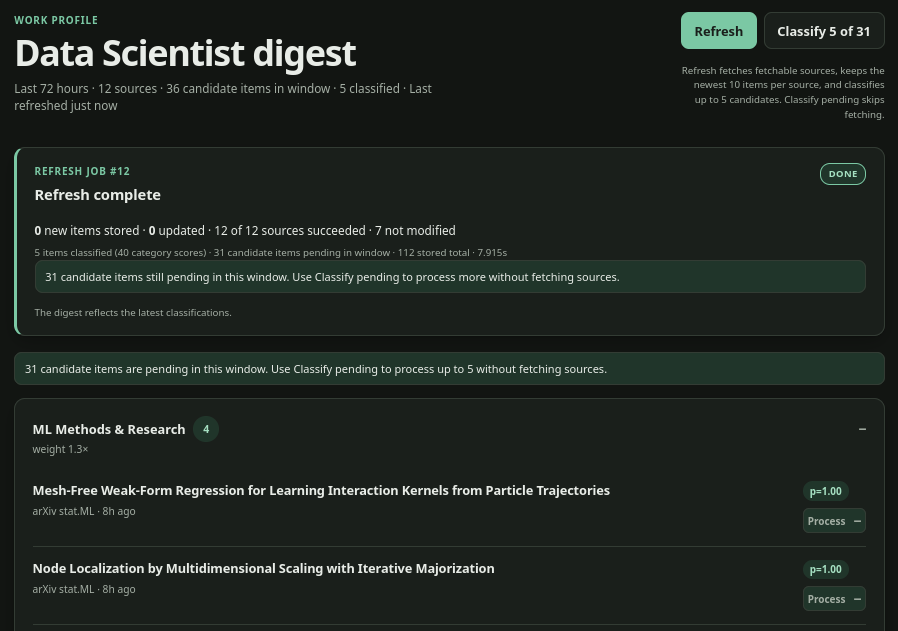
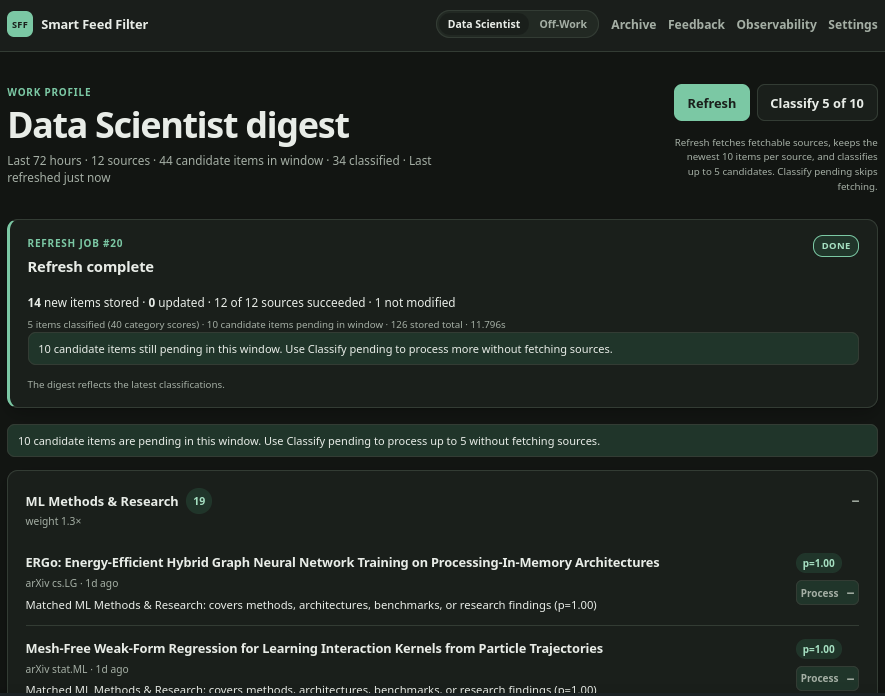
README+screenshots

diff --git a/README.md b/README.md
@@ -68,7 +68,9 @@ Process menu → archive, dismiss, recategorize, feedback
 
   ![Refresh job showing classification progress and stop control](_docs/screenshots/classification-processing.png)
 
+- **Observability page**: shows summary counts, recent traces, kind/status filters, and local alerts.
 
+  ![Observability page: summary counts, recent traces, kind/status filters, and local alerts](_docs/screenshots/observability-page.png)
 
 ## Code
 
@@ -87,6 +89,8 @@ Process menu → archive, dismiss, recategorize, feedback
 │   ├── logging_config.py
 │   ├── __main__.py
 │   ├── main.py
+│   ├── observability.py
+│   ├── observability_schema.sql
 │   ├── routes/
 │   ├── schema.sql
 │   ├── seed.py
@@ -96,7 +100,8 @@ Process menu → archive, dismiss, recategorize, feedback
 │   ├── timeutil.py
 │   └── versioning.py
 ├── data
-│   └── feedfilter.db   # generated at runtime (not committed)
+│   ├── feedfilter.db        # generated at runtime (not committed)
+│   └── observability.db     # local diagnostics only (not committed)
 ├── eval/
 ├── profiles
 │   ├── catalog.yaml
@@ -140,6 +145,24 @@ Use the per-item **Process** menu on matched or low-confidence entries:
 
 Archived items stay out of the digest and candidate counts. Removing one from the Archive page converts it to a dismissal while the underlying item exists.
 
+## Observability and alerts
+
+Diagnostics are local. The app writes traces, spans, metrics, structured log records, and alerts to a second SQLite database, kept separate from the digest database. No external telemetry service is called, and no account is required.
+
+- **Observability page**: open **Observability** in the header or go to <http://127.0.0.1:8000/observability>. It shows summary counts, recent traces, kind/status filters, and local alerts.
+- **Traces**: each request and refresh/classify job gets a trace ID. HTTP responses include `X-Trace-ID`; static assets, `/favicon.ico`, and `/healthz` are excluded. Open a trace to inspect its spans, metrics, and structured logs. Refresh traces include `feed.fetch`, `classify.items`, and `job.persist` spans.
+- **Alerts**: failed jobs, classification/Ollama failures, all-feeds-failed refreshes, and empty digests after a successful refresh create local alerts. The digest shows an alert banner for the active profile. Open alerts are deduplicated by profile and code; use **Acknowledge** on the Observability page to close one.
+- **Health**: `/healthz` keeps the existing table counts and adds `observability.status` plus `observability.open_alerts`. The Docker healthcheck is unchanged.
+- **Privacy**: the observability database stores IDs, counts, durations, statuses, event names, sanitized error-class messages, and URL-sanitized text. It does not store article titles, summaries, feed titles, model prompts, credentials, or external telemetry.
+- **Configuration**: `OBS_DB_PATH` selects the observability database and defaults to `./data/observability.db`; it must differ from `DB_PATH`. Compose passes `OBS_DB_PATH` through to `/app/data/observability.db` in the existing `feedfilter-data` volume.
+- **Reset**: stop the app, delete the file, and restart to recreate the schema:
+
+  ```bash
+  rm -f data/observability.db
+  ```
+
+  This removes local diagnostics and alert history only; the digest database and profiles are untouched. In Compose the file lives at `/app/data/observability.db` inside the `feedfilter-data` volume.
+
 ## Docker Compose
 
 The full stack also runs with Docker Compose, including Ollama. Compose reads `.env`, so create it first. You can use Podman instead of Docker if you prefer:
@@ -155,14 +178,14 @@ If port 8000 is busy on your machine, you can change PORT in `.env`, to 8080 for
 
   ![Ollama pull and application ready in Docker Compose](_docs/screenshots/ollama-pull-app-ready.png)
 
-Compose passes behavioral settings from `.env` (`TEV_MODEL`, `PORT`, `LOG_LEVEL`, `MAX_NEW_ITEMS`, `MAX_ITEMS_PER_FEED`, `REFRESH_OVERLAP_HOURS`, `RETENTION_DAYS`, `WINDOW_HOURS`, `RESCORE_DAYS`, `THRESHOLD`, `DB_PATH`, `LOG_PATH`). Two values are container-specific:
+Compose passes behavioral settings from `.env` (`TEV_MODEL`, `PORT`, `LOG_LEVEL`, `MAX_NEW_ITEMS`, `MAX_ITEMS_PER_FEED`, `REFRESH_OVERLAP_HOURS`, `RETENTION_DAYS`, `WINDOW_HOURS`, `RESCORE_DAYS`, `THRESHOLD`, `DB_PATH`, `OBS_DB_PATH`, `LOG_PATH`). Two values are container-specific:
 
 | Variable | Default | Purpose |
 |---|---|---|
 | `OLLAMA_BASE_URL_DOCKER` | `http://ollama:11434` | App-to-Ollama endpoint inside Compose; set to `http://host.docker.internal:11434` for a host Ollama |
 | `OLLAMA_PUBLISH_HOST` | `127.0.0.1` | Host interface for the published Ollama port |
 
-The app binds `0.0.0.0` inside the container, but its host port and the Ollama host port are published on loopback by default. Relative `DB_PATH`/`LOG_PATH` values resolve under `/app` and persist in the `feedfilter-data` volume; custom absolute paths need a matching volume mount.
+The app binds `0.0.0.0` inside the container, but its host port and the Ollama host port are published on loopback by default. Relative `DB_PATH`/`OBS_DB_PATH`/`LOG_PATH` values resolve under `/app` and persist in the `feedfilter-data` volume; custom absolute paths need a matching volume mount.
 
 ## Configuration
 
@@ -173,6 +196,7 @@ Settings come from the environment or a local `.env` file; `.env.example` lists 
 | `OLLAMA_BASE_URL` | `http://127.0.0.1:11434` | Local Ollama endpoint |
 | `TEV_MODEL` | `tev1:0.8b` | Decision model |
 | `DB_PATH` | `./data/feedfilter.db` | SQLite database file |
+| `OBS_DB_PATH` | `./data/observability.db` | Separate local observability database; must differ from `DB_PATH` |
 | `LOG_PATH` | `./data/feedfilter.log` | Log file |
 | `LOG_LEVEL` | `INFO` | Log verbosity |
 | `HOST` | `127.0.0.1` | Bind address |
@@ -195,7 +219,7 @@ python -m unittest discover -s tests -v
 ruff check .
 ```
 
-The integration tests exercise the digest, processing actions, archive and feedback pages, JSONL export, settings, profile switching, refresh, classify pending, job fragment, stop, retry, and `/healthz` routes against a temporary SQLite database without calling Ollama over the network.
+The integration tests exercise the digest, processing actions, archive and feedback pages, JSONL export, settings, profile switching, refresh, classify pending, job fragment, stop, retry, `/healthz`, the Observability dashboard and trace detail, alert creation/acknowledgement, and database recreation against temporary SQLite databases without calling Ollama over the network.
 
 GitHub Actions runs lint and the full test suite on every push and pull request via [`.github/workflows/ci.yml`](.github/workflows/ci.yml).
 
@@ -210,7 +234,8 @@ GitHub Actions runs lint and the full test suite on every push and pull request 
 - Threshold by profile, 0.55 default; match when probability ≥ threshold; low confidence collapsed by default.
 - Ranking: probability × weight × recency decay; 72h window; dedupe canonical URL + normalized title; item retention expands with wider windows, while job retention stays at `RETENTION_DAYS`.
 - Jobs: refresh and classify share a persisted, phase-aware runner; classification can be stopped without losing completed scores.
-- Error handling: persisted job state, actionable banner (`ollama serve`, `ollama pull tev1:0.8b`), retry classifies only missing items.
+- Observability: a separate local SQLite database stores correlated traces, spans, metrics, structured logs, and alerts; `/observability` and `/observability/traces/{trace_id}` expose them without an external service.
+- Error handling: persisted job state, actionable banner (`ollama serve`, `ollama pull tev1:0.8b`), retry classifies only missing items, and local alerts for user-impact failures.
 
 Reasons are templated, never generated. Ranking handles ordering. Refresh and Classify pending run as local jobs; no retroactive re-score or category editing UI is implemented.
 
